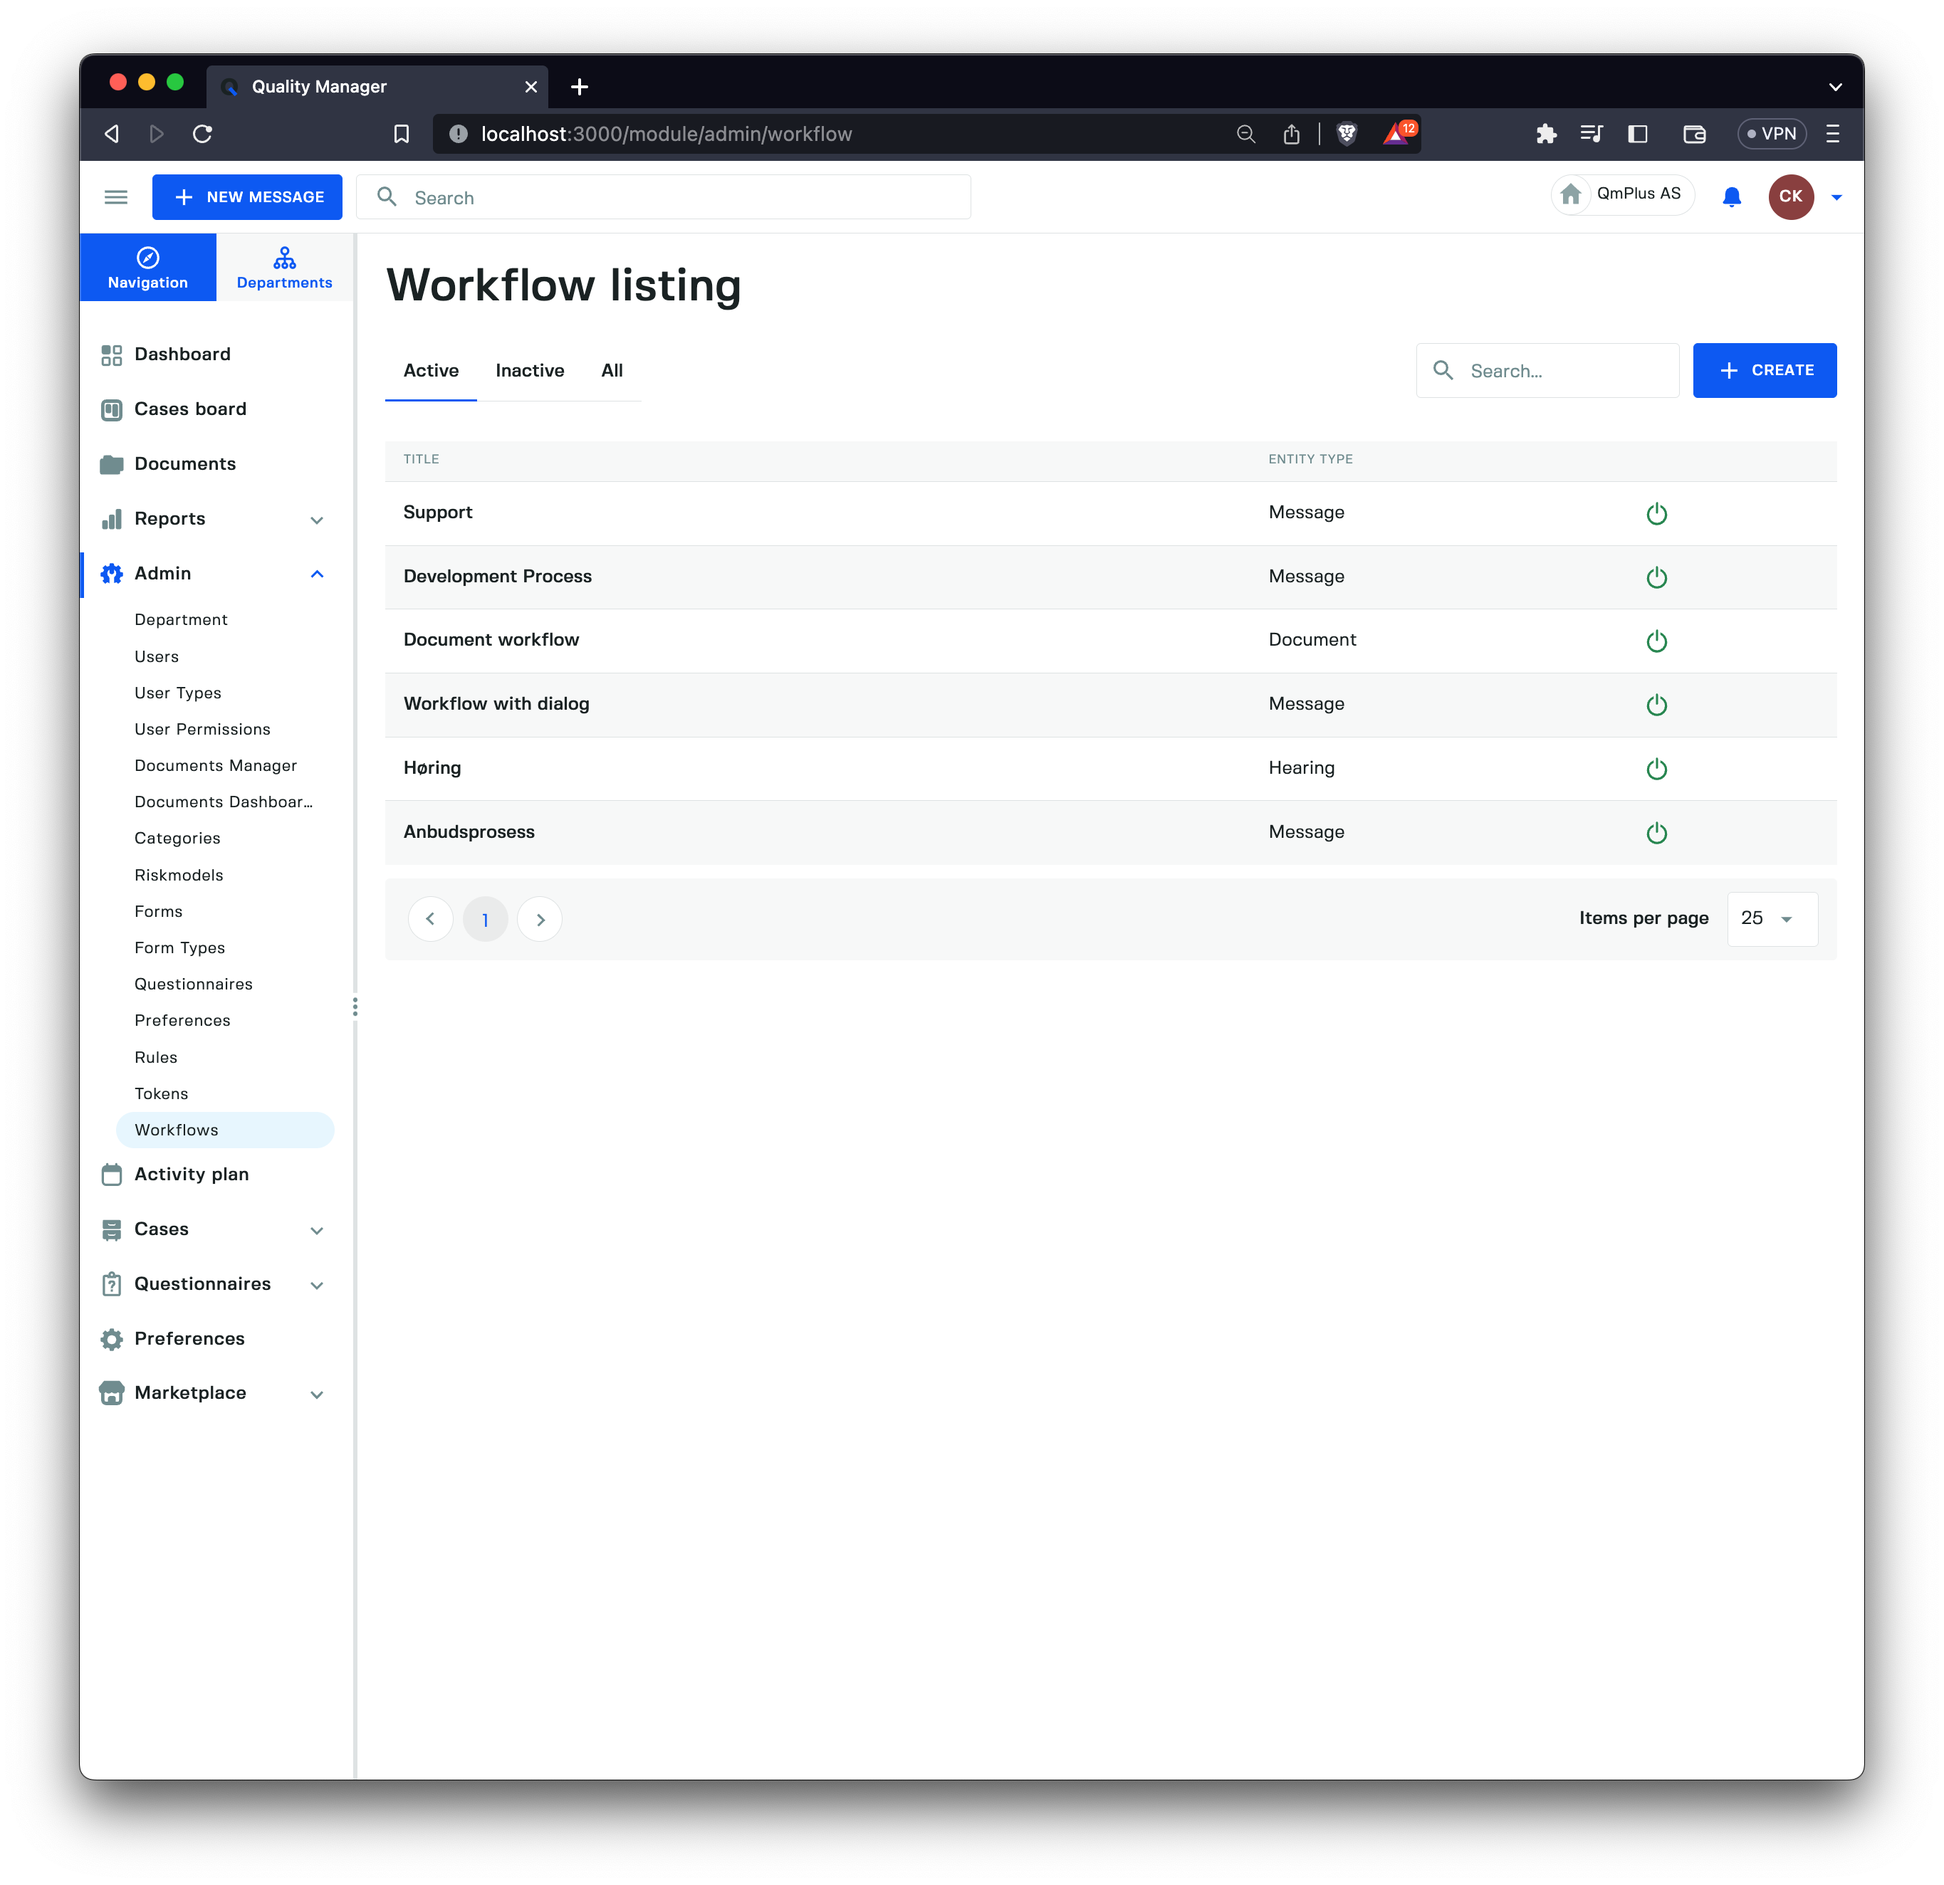
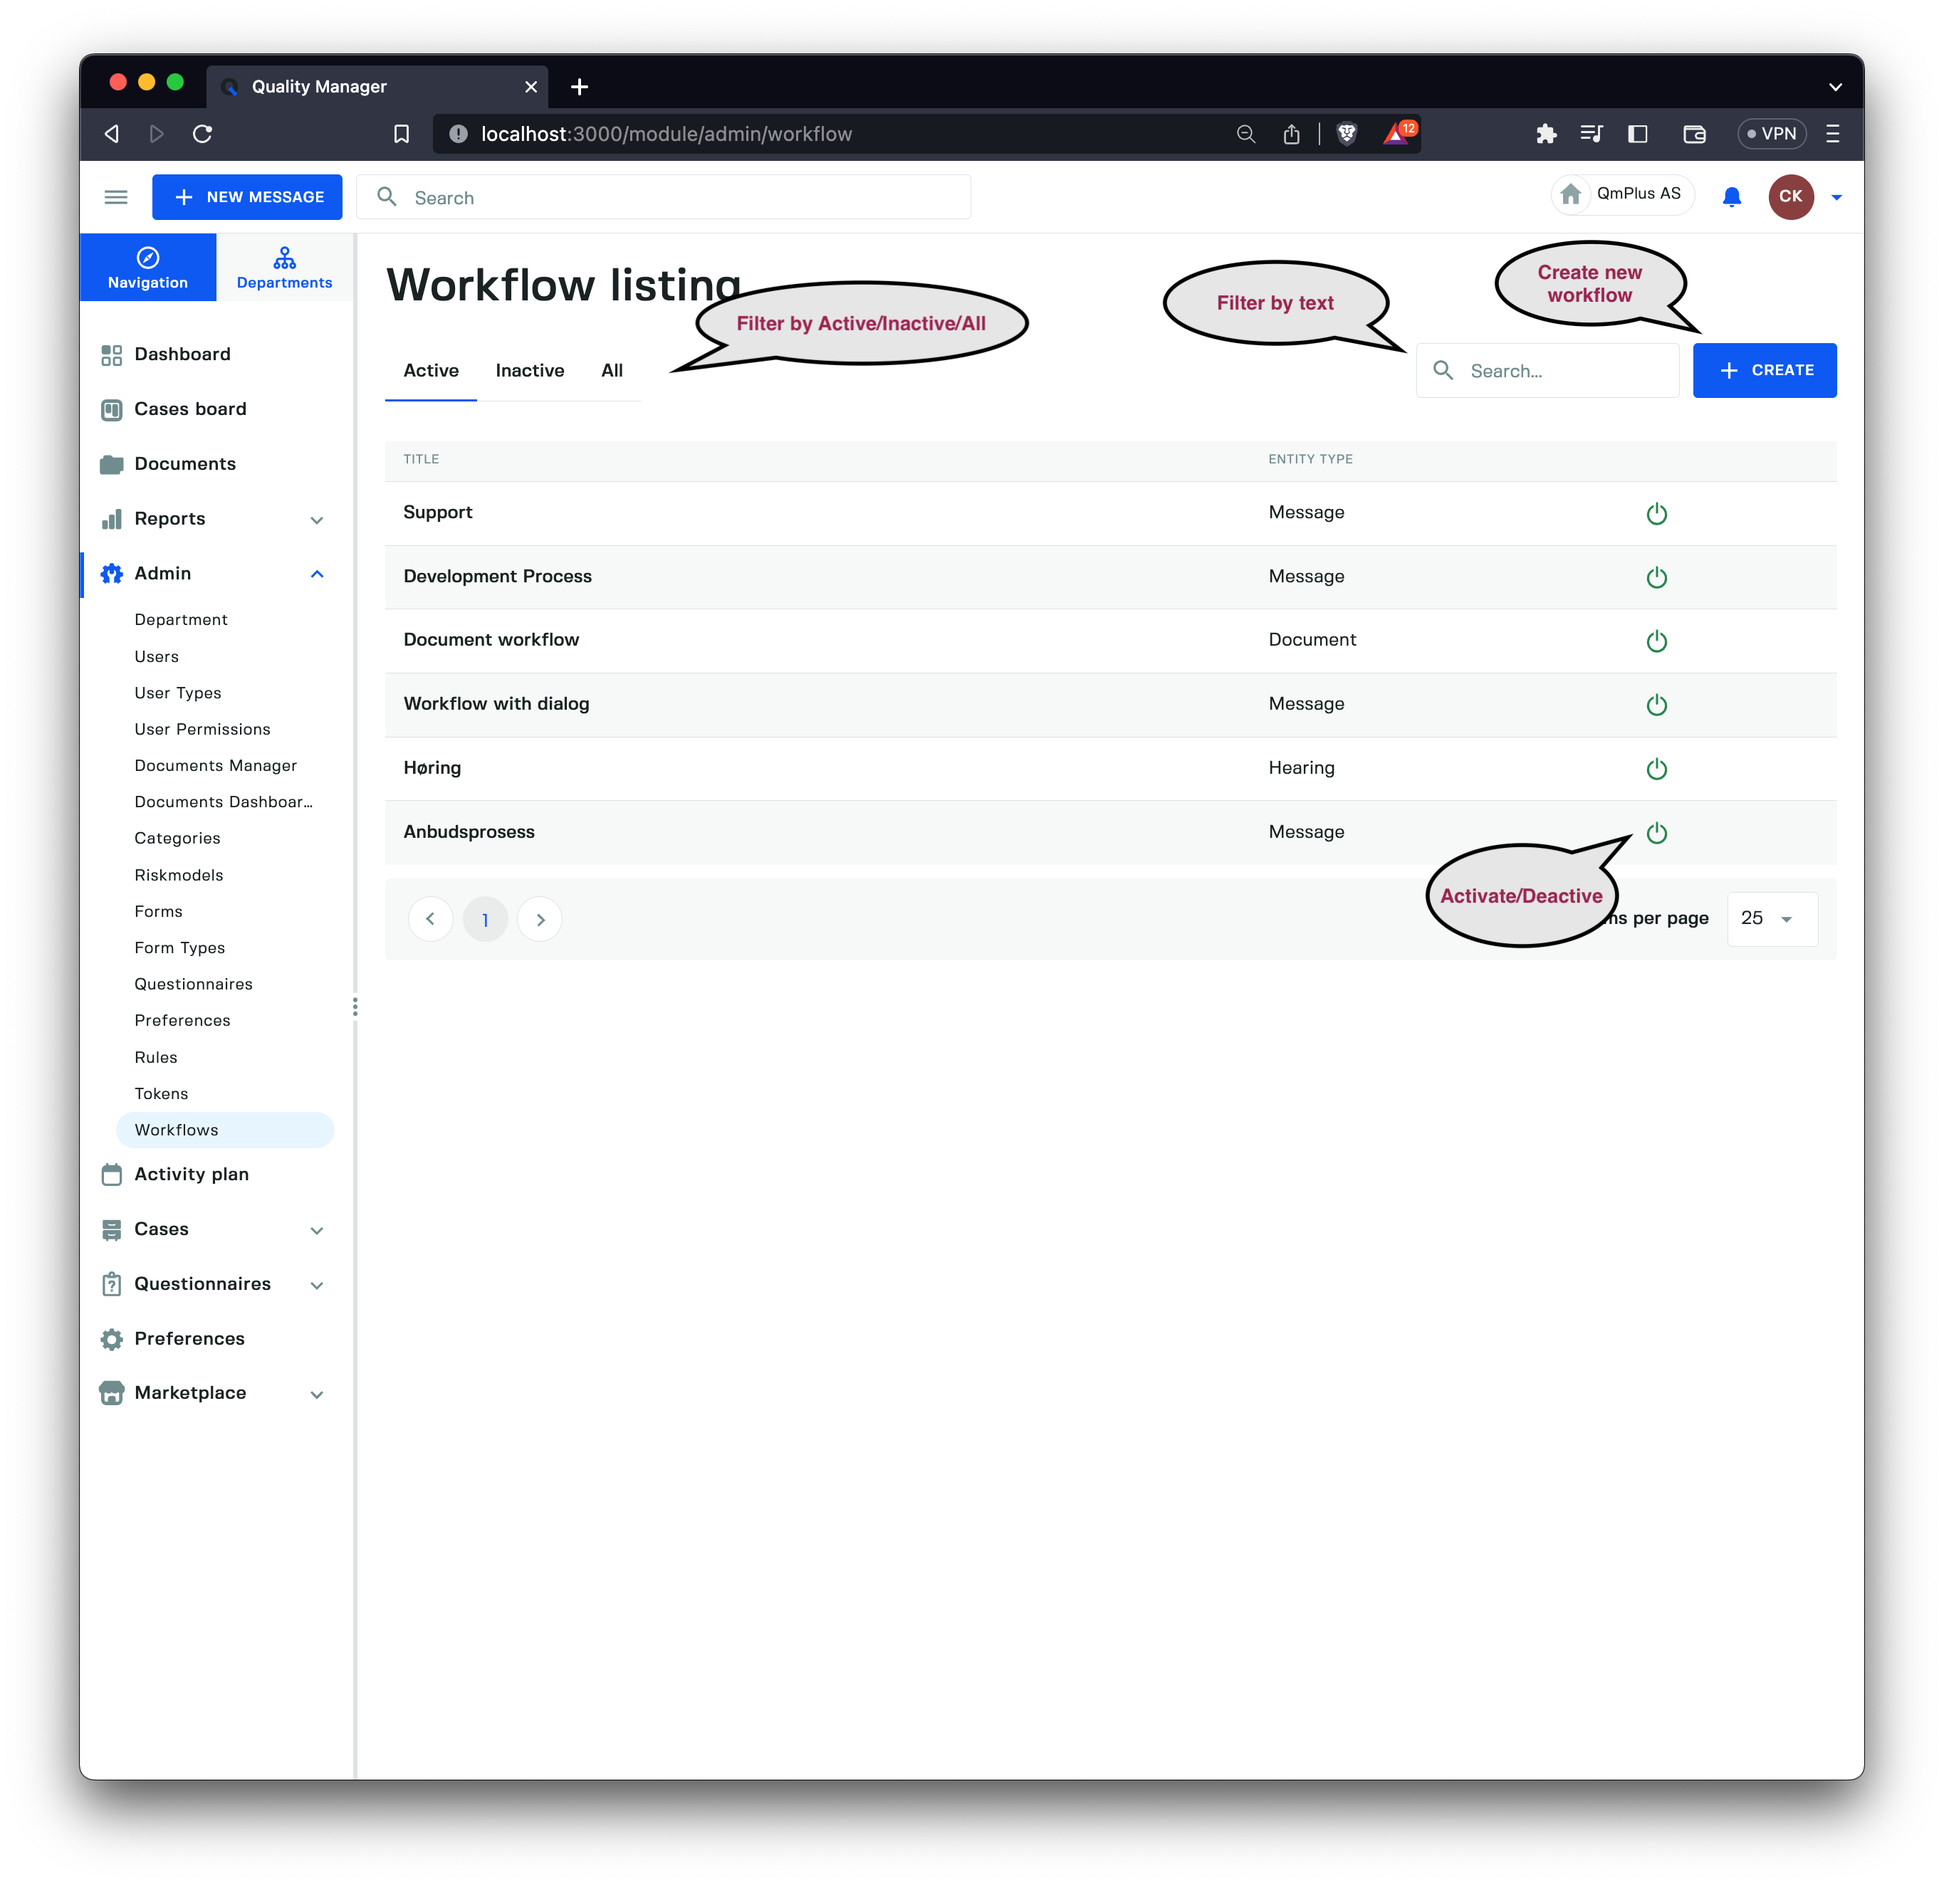
Added workflow user guide entry

diff --git a/content/en/docs/userguide/workflows.md b/content/en/docs/userguide/workflows.md
@@ -19,13 +19,178 @@ Clicking on the `Administrator/Workflows` gives access to the list of workflows.
 ## Workflows List
 
 {{< figure src="/images/workflows/workflows_1.png" caption="" width="1024">}}
+
+The Workflows list overview lets you see all workflows defined in the system. Workflows are global and shared by all departments in the organization.
+
+Workflows can be activated and deactivated as needed. This does not affect existing `form types` that use the workflow but makes it impossible to create new `form types` of that particular workflow.
+
+## Create Workflow
+
 {{< figure src="/images/workflows/workflows_2.png" caption="" width="1024">}}
+
+There are four tabs to consider when creating a new workflow.
+
+| Tab | Description |
+| --- | --- |
+| `General` | Entering general details for workflow. |
+| `Table` | Edit the statuses, transitions and dialogs that make up the workflow. |
+| `Graph` | A graphical representation of the workflow. |
+| `Processing` | Default processing settings for the workflow such as automatic deadlines etc. |
+
+### General Tab
+
+The general page allows us to fill out the following fields.
+
+{{< figure src="/images/workflows/workflows_12.png" caption="" width="1024">}}
+
+| Field | Description |
+| --- | --- |
+| `Title` | Specify the title of the workflow, support multiple languages if your account is configured for it. |
+| `Entity Type` | Select the entity type of the workflow, once set it cannot be changed. This can be `Message`, `Action`, `Document`, `Hearing` or `Audit` |
+| `Disable transitions checking` | This lets you override any transitions, making it possible to freely drag tickts between any transitions on the case board. Great when you want to implement Kanban processes or other non-gated processes |
+| `Start case status` | Set the default case start status. This is the case status that will be assigned to a new case for this workflow if no other rules override it. |
+| `Close case status` | Set the default close case status used for default close operations. |
+| `Early caseprocess` | Specify that this workflow supports the use of `Early caseprocess` rules set up to assign new cases to case handlers based on specified rules. |
+| `Associated hearing workflow ` | `Document` only. Allows you to specify an associated hearings workflow to this document workflow that will handle any hearings initiated for a document attached to this workflow. | 
+| `Associated audit workflow ` | `Document only`. Allows you to specify an associated audit workflow to this document workflow to handle all hearings. | 
+
+### Table Tab
+
 {{< figure src="/images/workflows/workflows_3.png" caption="" width="1024">}}
+
+The Table Tab allows us to build and modifty the workflow entities. There are three types of available entities.
+
+| Entity | Description |
+| --- | --- |
+| `Case Status` | Case statuses are defined states a case can be in. For example you might have a case status called `New` for a newly registered form entry and `Closed` for the final possible state for a case. |
+| `Transitions` | Transitions control the flow of case between case statuses. It makes it possible to enforce a workflow by specifying the legal transitions between statuses. For example you might make it possible to only move a case from `New` to `Under work` by adding a single transition between those statuses. |
+| `Dialogs` | Dialogs are collections of fields that can bet attached to a transition. For example you might decide that you want the user to add a comment when moving a case from the case status `New` to `Under work` and a dialog attached to this transition between those fields will lead the dialog to pop up for the user to fill out when moving between the statuses. |
+
+### Create Status
+
 {{< figure src="/images/workflows/workflows_4.png" caption="" width="1024">}}
+
+To create a new `Case status` you need to enter the following fields.
+
+| Field | Description |
+| --- | --- |
+| `Name` | The name of the case status, support multiple languages. |
+| `Status Group` | The Status Group for this Case Status, see the table below for explenations. |
+| `Description` | Optional description for the case status. |
+
+The possible `Status Groups` are detailed below.
+
+| Status Group | Description |
+| --- | --- |
+| `Open`<img width=200 height=1/> | A case is in a newly opened (first time it was opened state). This is basically used to signal a new case starting. |
+| `Unprocessed` | A case has been created but not yet opened by any case handler. |
+| `In progress` | A case is being worked on. |
+| `In action process` | A case triggered an action process and is waiting for it to be resolved. |
+| `Closed` | A case has been closed. |
+| `Deleted` | A case has been deleted. |
+
+### Create Transitions
+
 {{< figure src="/images/workflows/workflows_5.png" caption="" width="1024">}}
+
+A transition represents a change between two statuses (As an example you might move a case from `New` status to `Being worked on` status).
+
+A transition can have an optional dialog attached to it to collect information as part of the transition.
+
+> When we talk about transitions we will use `source` as the start status of the transition and `target` as the end status.
+
+We have the following fields when creating a transition.
+
+| Field | Description |
+| --- | --- |
+| `Transition Name` | The name of the Transition we are defining. |
+| `From status` | The start `Case Status` for the transition. |
+| `To status` | The end `Case Status` for the transition. |
+| `Dialog` | An optional dialog attached to the transition. |
+| `Related Workflow` | When transitioning to a `Case Status` of the Status Group `In action process` we can set a related workflow that will be used to trigger the creation of a new `Action` when this transition is performed. This option is currently only available for `Message Workflows`. |
+| `Start Status` | Specify what status a newly created `Action` should have in the `Related Workflow`. |
+
+> The Related Workflow option is only used when the `To status` is a `Case Status` of Status Group `In action process`.
+
+### Create Dialog
+
 {{< figure src="/images/workflows/workflows_6.png" caption="" width="1024">}}
-{{< figure src="/images/workflows/workflows_7.png" caption="" width="1024">}}
-{{< figure src="/images/workflows/workflows_8.png" caption="" width="1024">}}
-{{< figure src="/images/workflows/workflows_9.png" caption="" width="1024">}}
-{{< figure src="/images/workflows/workflows_10.png" caption="" width="1024">}}
+
+A dialog represents a set of fields configurable by the end user to collect information or trigger actions on a change of status for a case (a transition). Dialog are attached to transitions.
+
+The fields you can specify are.
+
+| Field | Description |
+| --- | --- |
+| `Dialog name` | The name of the workflow dialog, support multiple languages. |
+| `Description` | Optional description for the dialog. |
+| `Fields` | The list of fields used in the dialog. |
+
+As you can see there is a sizable selection of field types. Lets have a look at each and what they mean before constructing our custom dialog.
+
+| Field Type | Triggers | Description |
+| --- | --- | --- |
+| `Textfield`<img width=200 height=1/> | No | A single row free text entry field. |
+| `Textarea` | No | A text area with more columns for free text entry. |
+| `Text Editor` | | A text area with basic formatting for free text entry. |
+| `Number` | No | Entering any numeric value. |
+| `Date` | No | Specifiying a date. |
+| `Perform Task` | Yes | A field allowing you to specify who performed the task. |
+| `Action Name` | Yes | The title field that will be used when creating a new `Action` entry for a transition going into an `In action process` group state |
+| `Comment` | Yes | Allows the user to comment on the transition between states and set who is getting notified about the comment. |
+| `Acknowledgement` | Yes | Lets the user acknowledge that specific users performed their tasks. |
+| `Task Assignment Setup` | Yes | Allows the user to create tasks of a specific type when transitioning between statues. One can also control if one wants to collect a `Due date`, `Planned hours` and `Planned start date`. |
+
 {{< figure src="/images/workflows/workflows_11.png" caption="" width="1024">}}
+
+You can add fields to the dialog, seeing the preview of the dialog on the left hand side. Once you have specified all the fields you can click the `Save Changes` button at the bottom right to persist the changes to the workflow.
+
+### Graph Tab
+
+{{< figure src="/images/workflows/workflows_7.png" caption="" width="1024">}}
+
+The `Graph Tab` shows a graphical representation of the workflow. Each box represents a `Case Status` in the workflow and each line between the `Case Statuses` represents a transition between two states. The above workflow is very simple, below is a more complex workflor example. 
+
+{{< figure src="/images/workflows/workflows_10.png" caption="" width="1024">}}
+
+> Use the `Graph Tab` to validate your workflow and ensure you did not miss any transitions. A `Case Status` without any transitions is a typical signal that one might have missed a transition or that the `Case Status` is not needed.
+
+### Processing Tab
+
+The processing tab contains setting to set defaults for case deadlines and escalations for all form types and forms associated with this particular workflow.
+
+{{< figure src="/images/workflows/workflows_8.png" caption="" width="1024">}}
+
+#### Due dates
+
+Allows the control of how due date notifications are handled. This allows one to set general due date handling settings for this workflow and thus `form types` and `forms` using this workflow.
+
+> `Form types` and `Forms` let you override these so you can for example have a form `Accident` that have much shorter automatic due dates compared to the general workflow. `Form type` settings will override the workflow and `Form` settings will override `Form type` and `Workflow` settings.
+
+The available fields.
+
+| Field | Description |
+| --- | --- |
+| `Number of days before overdue` | The number of days since the last update happened to a case before it's considered overdue. |
+| `Reminder email frequencey` | The frequence of sending overdue email notifications. These are options like `Off`, `Every day`, `Everyone Monday` etc. |
+| `Time of day to send overdue emails` | Specify the time of day to send the email. For example you might overdue notices to be delivered after 9 in the morning. This is not an exact time. The email some time after the specified time depending on your email system and sending time. |
+
+#### Escalation
+
+Allows the control of how escalations are handled. This allows one to set general escalation handling settings for this workflow and thus `form types` and `forms` using this workflow.
+
+> `Form types` and `Forms` let you override these so you can for example have a form `Accident` that have much shorter automatic escalation date compared to the general workflow. `Form type` settings will override the workflow and `Form` settings will override `Form type` and `Workflow` settings.
+
+The available fields.
+
+| Field | Description |
+| --- | --- |
+| `Escalation of overdue cases enabled` | Enable or disable the escalation. |
+| `Escalate after N hours overdue` | The number of hours since the last case update happened before it's considered for escalation. |
+| `Escalation strategy` | The strategy to pick to whom to escalate the case. See available strategies below. |
+| `Time of day to escalate mesages` | What time of the day to escalate messages. |
+| `Number of hours for next due date after escalation` | The next due date after escalating the case to a new case handler. |
+
+The available strategies.
+
+| `Direct supervisor` | The case will be sent to the persons closest direct supervisor with permission to process cases. If there are more than one potential supervisor it will pick on of them on random. |
